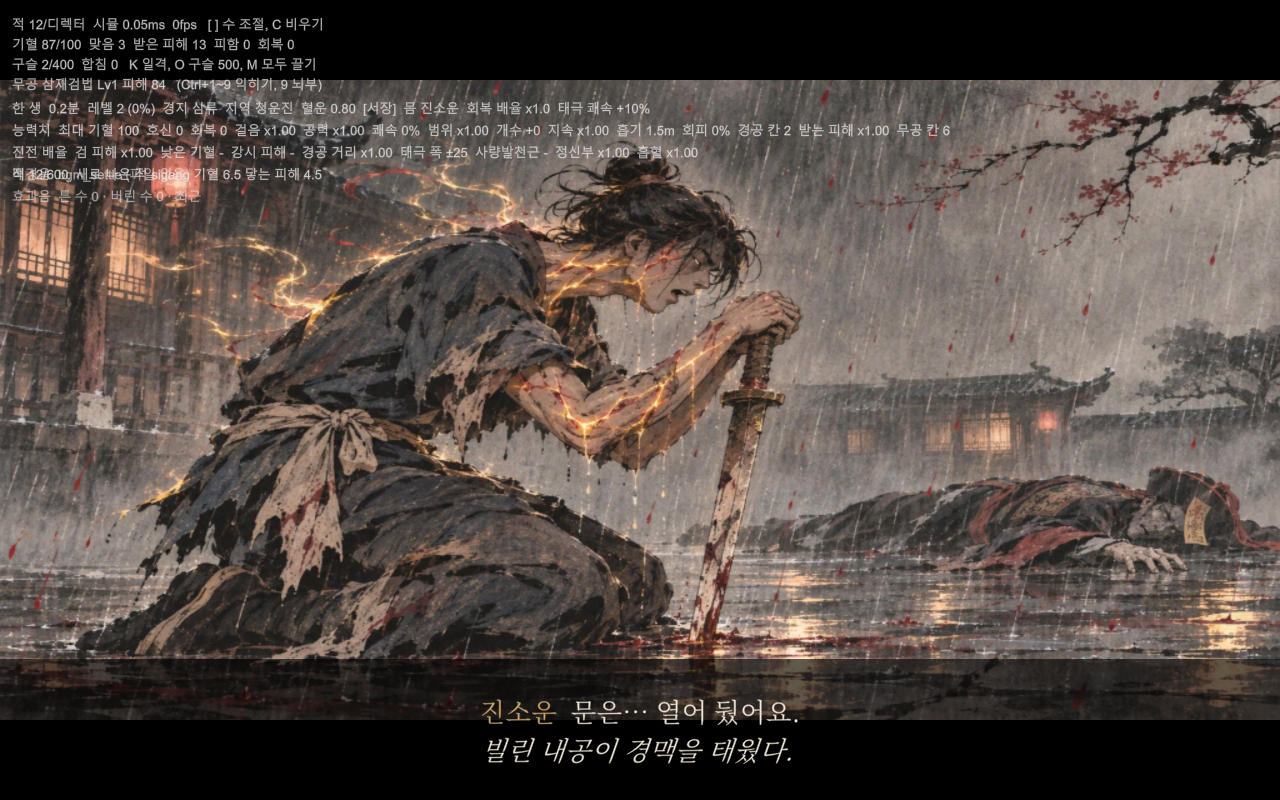
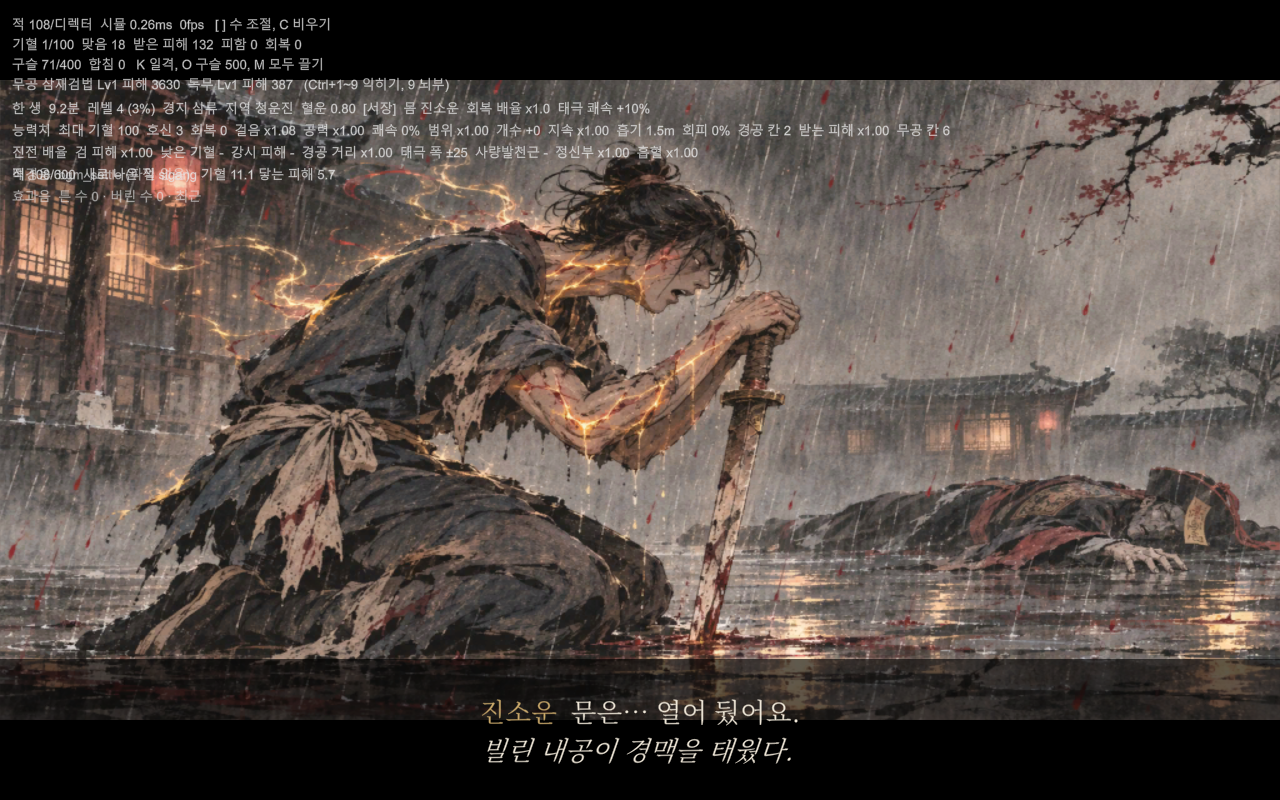
C-10b 서장 끝까지 확인, 컷 입력 막기를 balance 값으로
장삼 처치 → 컷 둘 → 객잔 → 침방 첫 환혼 → 소림 몸까지 새 혼으로 돎.
CutScreen 입력 막는 시간을 levelUp.inputGuardSeconds 로(QA-23).
도부수 부채꼴은 E-01 로 넘김.

Claude-Session: https://claude.ai/code/session_01JznnPSLgYqBLWfAXASoCLE

Changed region(s): [[0.0312, 0.0, 0.3438, 0.125], [0.1562, 0.1875, 0.25, 0.25], [0.0625, 0.1875, 0.125, 0.25]]

diff --git a/unity/BloodRain/Assets/Scripts/Presentation/Meta/CutScreen.cs b/unity/BloodRain/Assets/Scripts/Presentation/Meta/CutScreen.cs
@@ -18,8 +18,9 @@ namespace BloodRain.Presentation.Meta
     {
         public TMP_FontAsset font;
         public List<Texture2D> art = new List<Texture2D>();
-        /// <summary>한 컷을 넘길 수 있게 되기까지(실제 초). 쓰러뜨린 순간 누르던 키가 컷을 건너뛰지 않게.</summary>
-        public float inputGuardSeconds = 0.6f;
+        /// <summary>한 컷을 넘길 수 있게 되기까지(실제 초). 쓰러뜨린 순간 누르던 키가 컷을 건너뛰지 않게.
+        /// 웹 컷과 같이 balance levelUp.inputGuardSeconds(12장 '레벨업 입력')를 쓴다.</summary>
+        static float InputGuardSeconds => DataBoot.Data.Balance.LevelUp.InputGuardSeconds;
 
         public bool IsOpen { get; private set; }
         public string Shown { get; private set; } = "";
@@ -99,7 +100,7 @@ namespace BloodRain.Presentation.Meta
 
         void Update()
         {
-            if (!IsOpen || Time.unscaledTime - _openedAt < inputGuardSeconds) return;
+            if (!IsOpen || Time.unscaledTime - _openedAt < InputGuardSeconds) return;
             var kb = Keyboard.current;
             var mouse = Mouse.current;
             bool pressed = (kb != null && (kb.spaceKey.wasPressedThisFrame || kb.enterKey.wasPressedThisFrame || kb.escapeKey.wasPressedThisFrame))

diff --git a/docs/unity_tasks.md b/docs/unity_tasks.md
@@ -633,7 +633,7 @@ Unity 에디터가 있어야 하는 일만 적는다. PC Unity 예약 세션(202
   - 끝: 세 패턴이 웹 프로토타입 장삼과 같은 순서·간격
   - 찍기: `docs/unity_shots/C-10/` 의 `jang_sam.png`
 
-- [ ] C-10b 서장 10분 통과 · 먼저: C-10a, LF-03
+- [x] C-10b 서장 10분 통과 · 먼저: C-10a, LF-03 — 2026-11-10 22:45 PC: 흐름은 이미 붙어 있었음(PatternRunner 처치 → `LifeRunner.EndPrologue` → KillPrologueBoss·Soul.EndLife·저장 → `CutScreen` → 객잔 → 침방 첫 환혼). 고친 것: CutScreen 입력 막기 0.6 박힌 값을 `Balance.LevelUp.InputGuardSeconds` 로(QA-23). 플레이(빈 저장 칸 2 로 새 혼): 서장 시계 5분 → 정예 강시 도부수 1 이 섬, 8분59초 → 9.0분 장삼 → 기혈 6000 에서 깎으니 600(10%) 에서 각성, 이어 0 → 컷 sb_prologue_burnout → sb_prologue_needle → 객잔 → 침방 첫 환혼(소림·개방·남궁) → 소림 고르니 Run 에 소림 몸. 혼 PrologueDone true. 각성 뒤 진소운이 쓰러지면 Hold(기혈 1)로 이어짐. 콘솔 에러 0(스크린샷 도구가 멈춘 프레임을 Step 할 때 Dash.Tick dt 예외 한 번 — 도구 몫). 도부수 부채꼴 패턴은 PatternRunner 가 한 몸만 다뤄 아직 안 돎 → E-01 에 넘김. 시험용 혼이 PC 저장 칸 2(soul_2.json)에 남음. 찍음 `docs/unity_shots/C-10/` 의 `prologue_end.png`·`prologue_first_rebirth.png`
   - 할 것: 서장 흐름을 끝까지 — 5:00 정예 강시 도부수(`data.ElitePatternSet("gangsi_axeman")` 부채꼴), 장삼 사건(`life.Prologue.Step` 이 Boss)이면 장삼, 피해는 `life.DamagePrologueBoss(hp, max, dmg)`(바닥 10% 에서 각성), 0 이면 `life.KillPrologueBoss()` → `soul.EndLife(record)` → 컷 `Prologue.CurrentCut`/`NextCut`(그림은 없으면 빈 칸 + 자막) → `soul.OpenRebirth` → `Prologue.ChooseFirst` → 침방. 진소운 기혈 0 은 LF-03 의 PlayerDown 길.
   - 쓸 것: Core `Life`(IsPrologue·Prologue·DamagePrologueBoss·KillPrologueBoss·RestartPrologue), `Spawning/PrologueDirector.cs`
   - 메뉴: `BloodRain/Test/서장 시계 넘기기(플레이 중)/5분·8분30초`
@@ -642,7 +642,7 @@ Unity 에디터가 있어야 하는 일만 적는다. PC Unity 예약 세션(202
   - 찍기: `docs/unity_shots/C-10/` 의 `prologue_end.png`
 
 - [ ] E-01 숭산 정예 셋 · 먼저: BR-01
-  - 할 것: PatternRunner 로 동인(`jump_slam` 3연타), 계율원 강시 승려(`projectile_fan` 세 갈래, 걸으며 쏨), 강시 방장 대리(`circles` + Aim `self`, 맞으면 `StunSeconds` 걷기·경공 못 함, 무공은 나감). LF-02 가 정예 사건으로 세운 적에 붙인다. PatternRunner 가 지금 한 몸(_fight·_patterns·_teles·_later)만 다루니 몸마다 상태 묶음으로 쪼갠다 — Core `BossPatterns` 는 몸마다 `new BossPatterns(set)` 하나씩이면 되고 Core 쪽 손볼 것은 없다(2026-11-10 클라우드 확인). 같은 김에 `Shape()` 가 예고마다 `new Mesh()` 를 만들고 `Remove`·`Clear` 는 GameObject 만 지워 메쉬가 남는다(정예가 붙으면 예고가 몇 배) → 지울 때 `MeshFilter.sharedMesh` 도 `Destroy`. 정예 몸 반지름은 `Balance.Stats.EliteBodyRadius`(0.78, 경지 m), 땅의 주인은 PatternRunner 자리 표시 `bossBodyRadius` 1.0 대신 `Balance.Stats.BossBodyRadius`(1.18) — 웹과 같은 값(2026-11-10 BD-02).
+  - 할 것: (C-10b 에서 넘어옴) 서장 5:00 정예 강시 도부수(`data.ElitePatternSet("gangsi_axeman")` 부채꼴)도 같은 틀로 — 지금은 몸만 서고 패턴이 안 돎. PatternRunner 로 동인(`jump_slam` 3연타), 계율원 강시 승려(`projectile_fan` 세 갈래, 걸으며 쏨), 강시 방장 대리(`circles` + Aim `self`, 맞으면 `StunSeconds` 걷기·경공 못 함, 무공은 나감). LF-02 가 정예 사건으로 세운 적에 붙인다. PatternRunner 가 지금 한 몸(_fight·_patterns·_teles·_later)만 다루니 몸마다 상태 묶음으로 쪼갠다 — Core `BossPatterns` 는 몸마다 `new BossPatterns(set)` 하나씩이면 되고 Core 쪽 손볼 것은 없다(2026-11-10 클라우드 확인). 같은 김에 `Shape()` 가 예고마다 `new Mesh()` 를 만들고 `Remove`·`Clear` 는 GameObject 만 지워 메쉬가 남는다(정예가 붙으면 예고가 몇 배) → 지울 때 `MeshFilter.sharedMesh` 도 `Destroy`. 정예 몸 반지름은 `Balance.Stats.EliteBodyRadius`(0.78, 경지 m), 땅의 주인은 PatternRunner 자리 표시 `bossBodyRadius` 1.0 대신 `Balance.Stats.BossBodyRadius`(1.18) — 웹과 같은 값(2026-11-10 BD-02).
   - 쓸 것: `data.ElitePatternSet("dongin"|"gyeyul_monk"|"acting_abbot")`, bosspatterns.json elites, `Combat/PatternShapes`(jump_slam 뜀·착지 초, projectile_fan `FanDegrees`·`FanShotRadius`·`FanFlightSeconds`, WP-64)
   - 메뉴: `BloodRain/Test/정예 부르기(플레이 중)/<id>`
   - 끝: 셋이 웹 프로토타입 eliteAI 와 같은 모양
